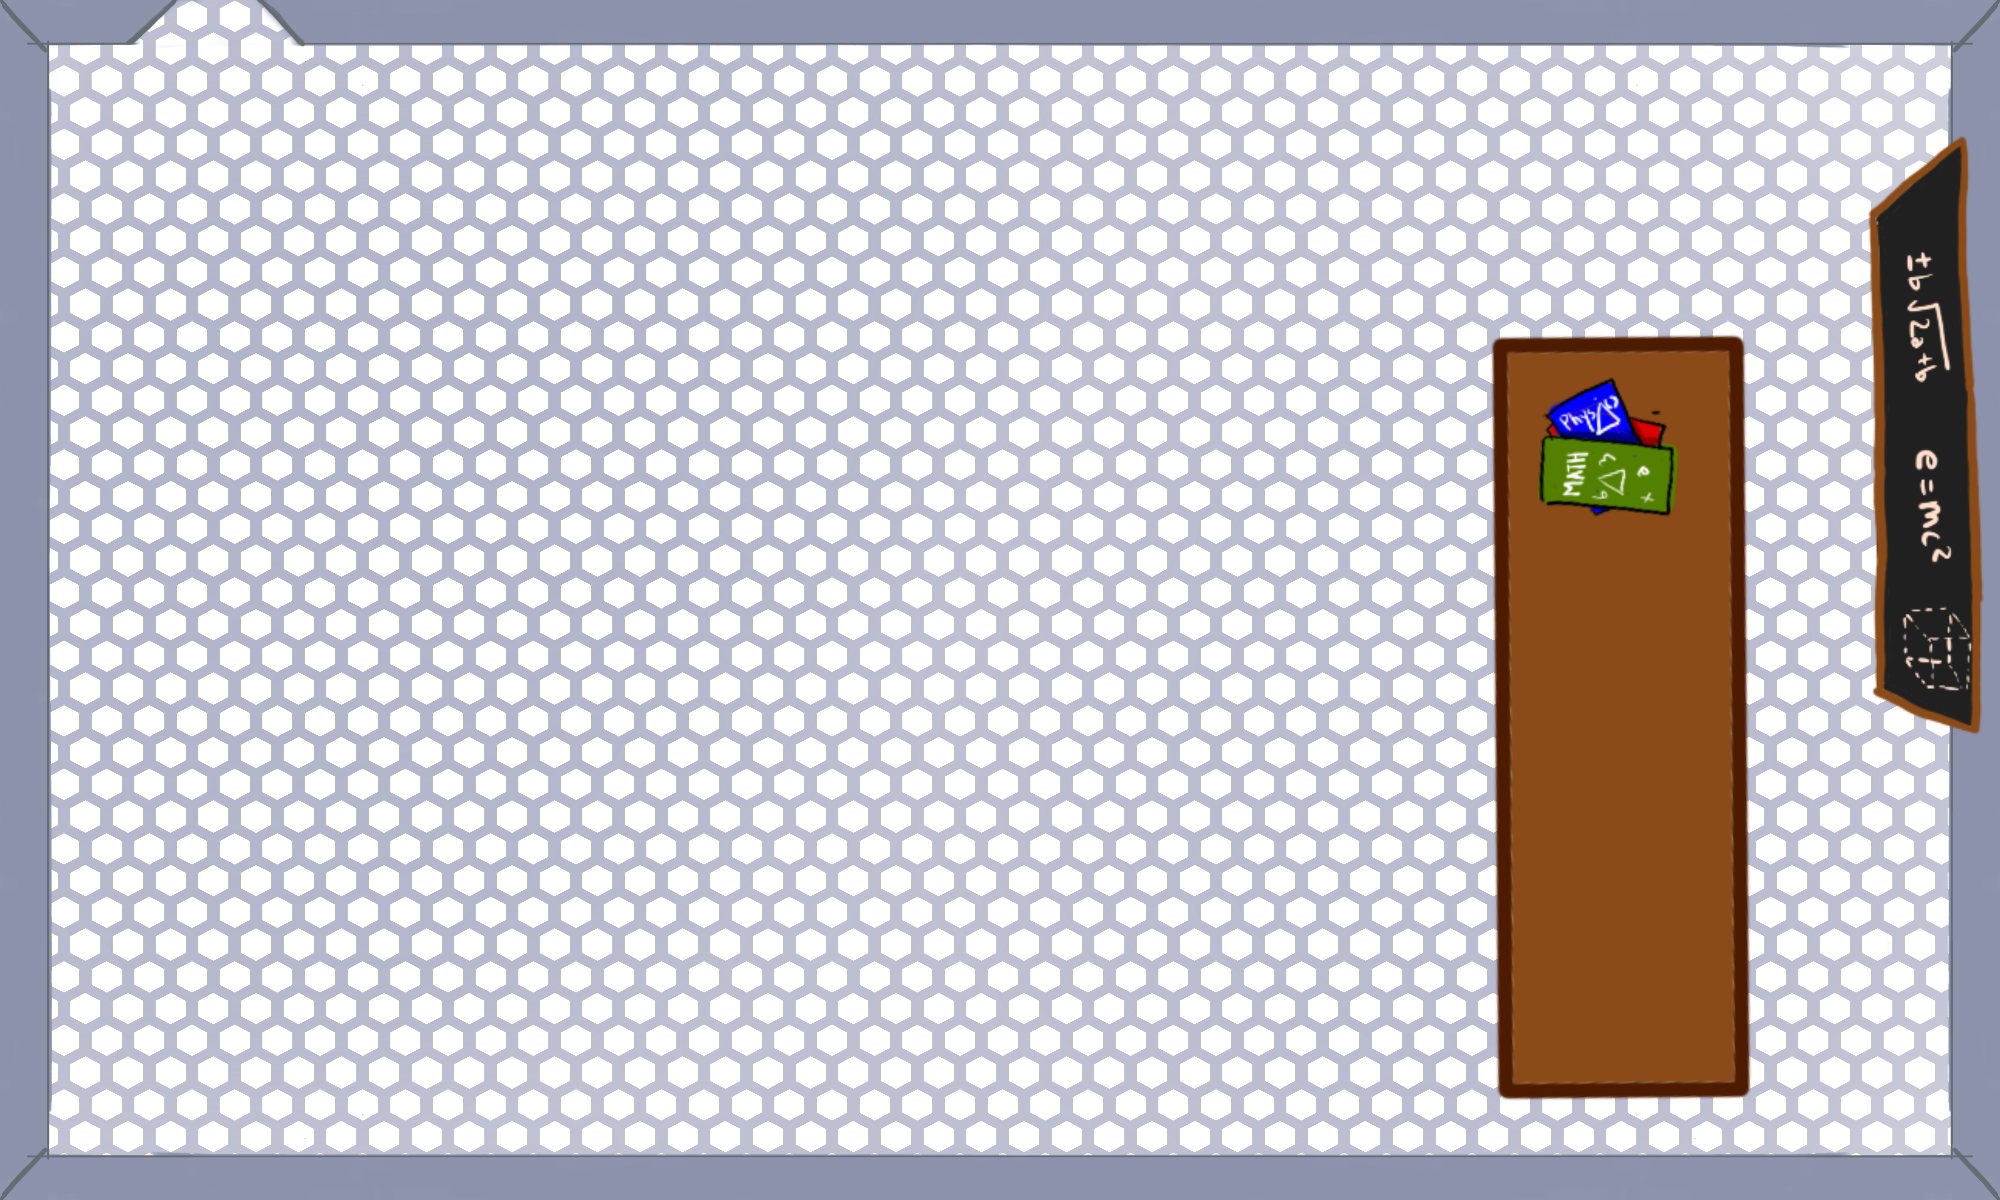
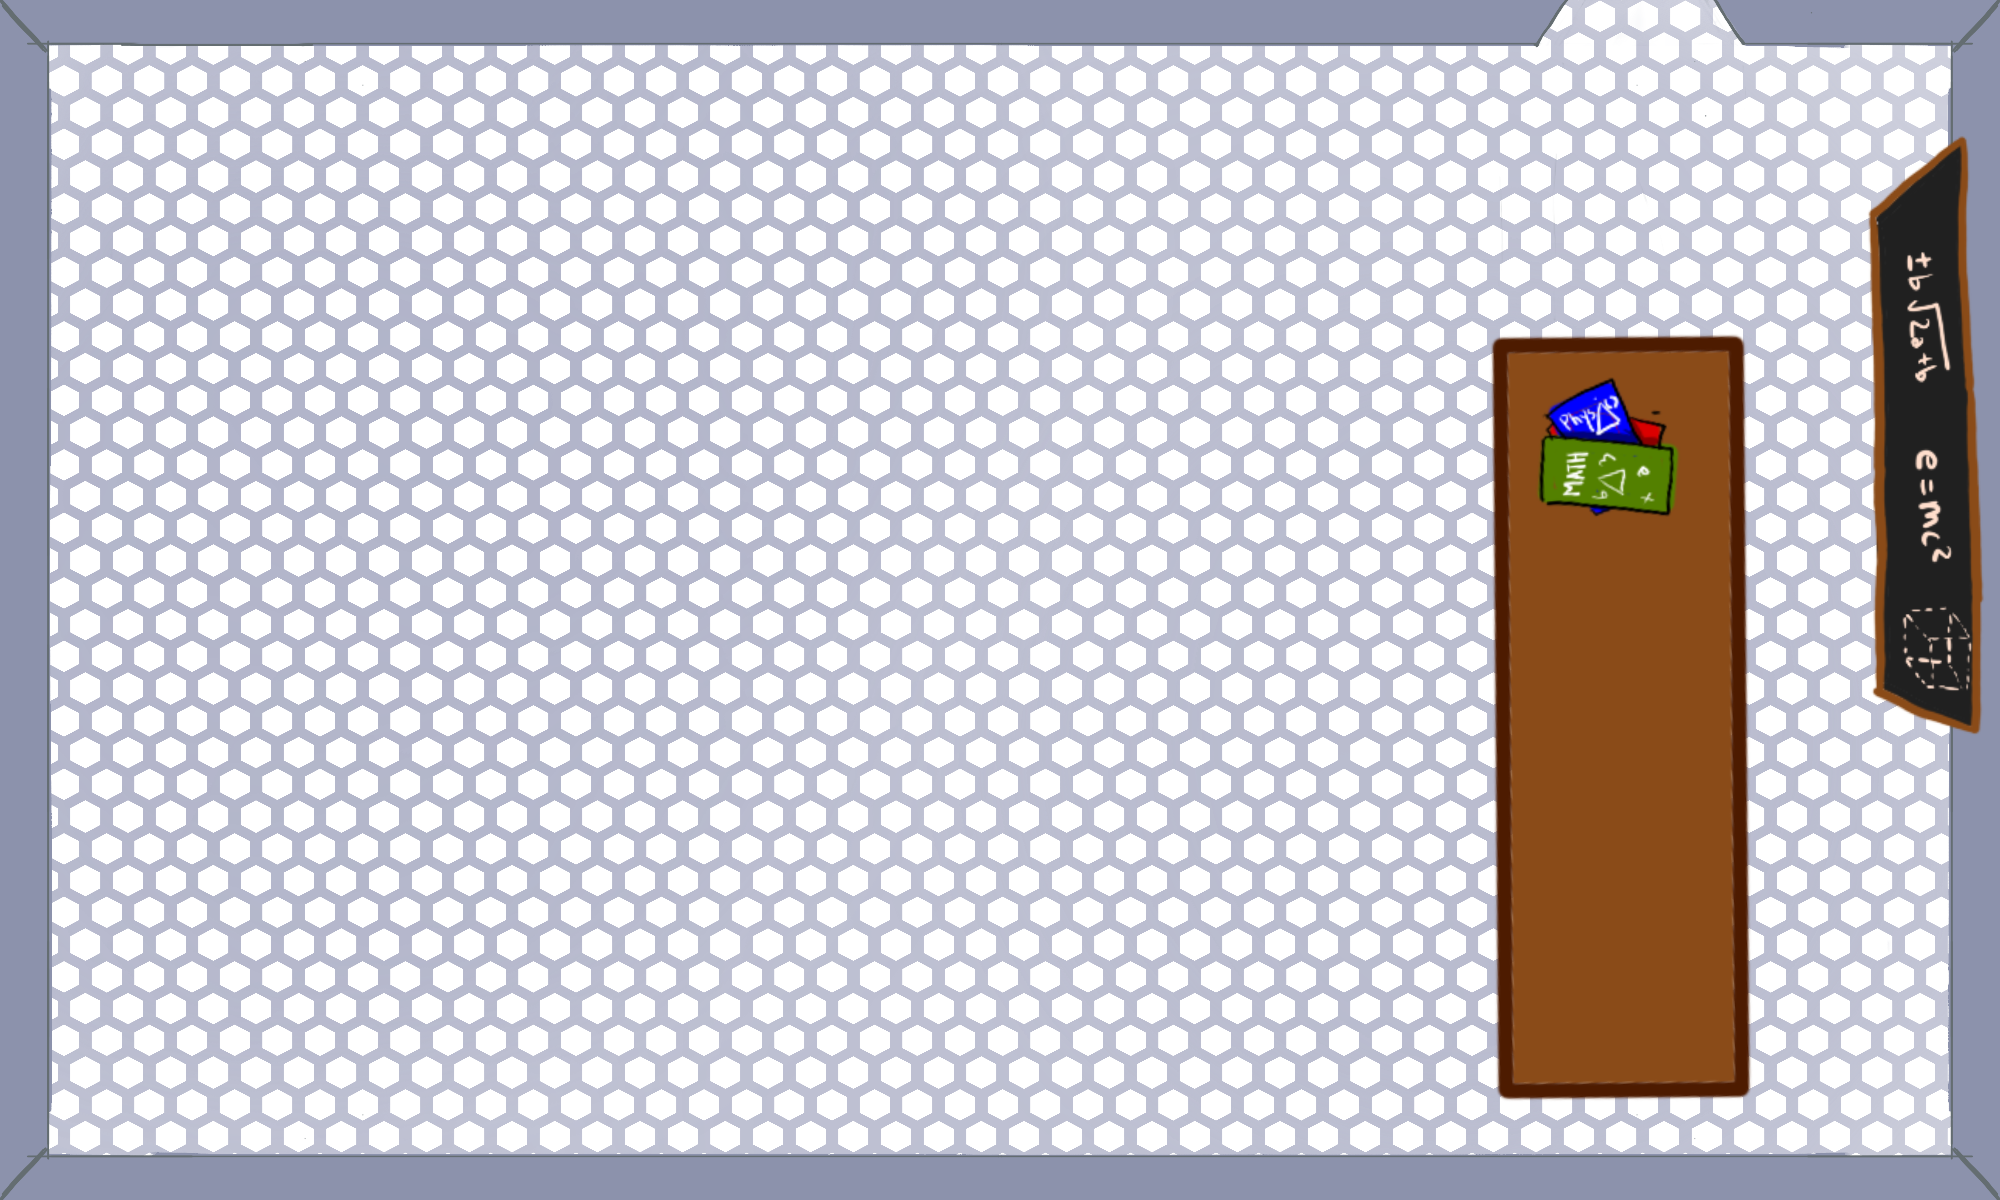
Deleted door rendering
Refactor game mechanics: update ball interval in CatchBallModel, adjust door positioning in DoorGenerator, remove DoorRenderer, and update related assets.

Changed region(s): [[0.775, 0.0, 0.868, 0.0617], [0.062, 0.0, 0.155, 0.0617]]

diff --git a/src/main/java/it/unibo/exam/view/GameRenderer.java b/src/main/java/it/unibo/exam/view/GameRenderer.java
@@ -5,7 +5,6 @@ import it.unibo.exam.model.entity.enviroments.Room;
 import it.unibo.exam.model.game.GameState;
 import it.unibo.exam.view.hud.ScoreHud;
 import it.unibo.exam.view.renderer.PlayerRenderer;
-import it.unibo.exam.view.renderer.DoorRenderer;
 import it.unibo.exam.view.renderer.NpcRenderer;
 import it.unibo.exam.utility.generator.RoomGenerator;
 import it.unibo.exam.utility.medialoader.AssetLoader;
@@ -38,7 +37,6 @@ public class GameRenderer {
 
     // Entity renderers
     private final PlayerRenderer playerRenderer;
-    private final DoorRenderer   doorRenderer;
     private final NpcRenderer    npcRenderer;
 
     // Map room-name → background image
@@ -55,7 +53,6 @@ public class GameRenderer {
 
         // Initialize renderers
         this.playerRenderer = new PlayerRenderer();
-        this.doorRenderer   = new DoorRenderer();
         this.npcRenderer    = new NpcRenderer();
 
         // Load each room's background via AssetLoader
@@ -104,9 +101,6 @@ public class GameRenderer {
 
         clearBackground(g);
         drawRoomBackground(g, currentRoom);
-
-        // Draw doors
-        currentRoom.getDoors().forEach(door -> doorRenderer.render(g, door));
 
         // Draw puzzle NPC if present
         if (currentRoom.getRoomType() == RoomGenerator.PUZZLE_ROOM

diff --git a/src/main/java/it/unibo/exam/utility/generator/DoorGenerator.java b/src/main/java/it/unibo/exam/utility/generator/DoorGenerator.java
@@ -17,6 +17,8 @@ public class DoorGenerator extends EntityGenerator<List<Door>> {
     private static final int MIN_DOOR_DIMENSION = 40;
     private static final int DOOR_DIVIDER = 20;
     private static final int DOOR_MARGIN = 20;
+    private static final int DELTA = 200;
+
 
     private List<Point2D> dir;
     private final Point2D environmentSize;
@@ -51,7 +53,7 @@ public class DoorGenerator extends EntityGenerator<List<Door>> {
             ),
             // To room 2 – bottom side
             new Point2D(
-                Math.max(0, envSize.getX() / 3 - doorWidth / 2),
+                Math.max(0, envSize.getX() / 3 - doorWidth / 2 - DELTA),
                 Math.max(0, envSize.getY() - doorHeight - margin)
             ),
             // To room 3 – left side
@@ -66,7 +68,7 @@ public class DoorGenerator extends EntityGenerator<List<Door>> {
             ),
             // To room 5 – bottom side
             new Point2D(
-                Math.max(0, 2 * envSize.getX() / 3 - doorWidth / 2),
+                Math.max(0, 2 * envSize.getX() / 3 - doorWidth / 2 + DELTA),
                 Math.max(0, envSize.getY() - doorHeight - margin)
             )
         );

diff --git a/src/main/java/it/unibo/exam/model/entity/minigame/garden/CatchBallModel.java b/src/main/java/it/unibo/exam/model/entity/minigame/garden/CatchBallModel.java
@@ -14,7 +14,7 @@ public final class CatchBallModel {
     private static final int WIDTH = 600;
     private static final int HEIGHT = 400;
     private static final int TARGET_SCORE = 10;
-    private static final int BALL_INTERVAL = 60; // frames
+    private static final int BALL_INTERVAL = 80; // frames
     private static final int BOTTLE_WIDTH = 60;
     private static final int BOTTLE_HEIGHT = 100;
     private static final int BOTTLE_Y_OFFSET = 120;
